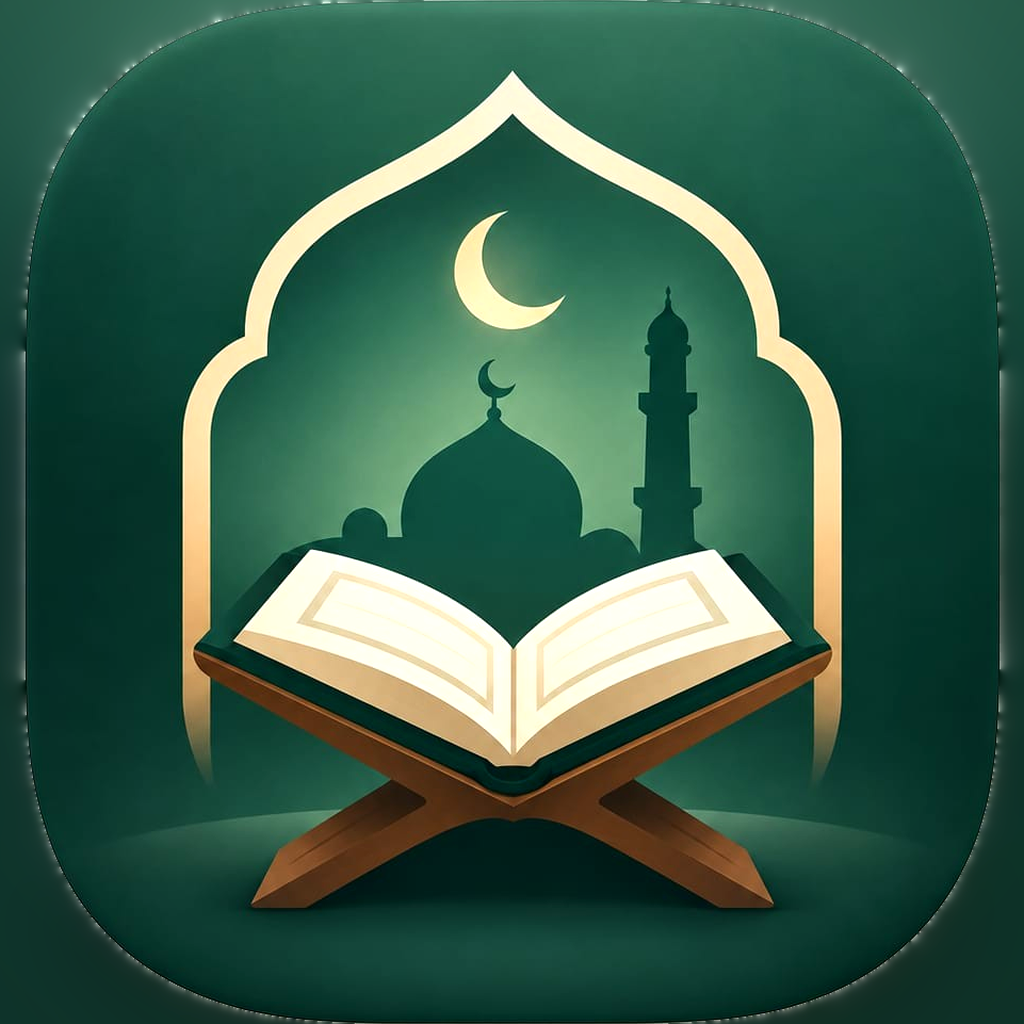
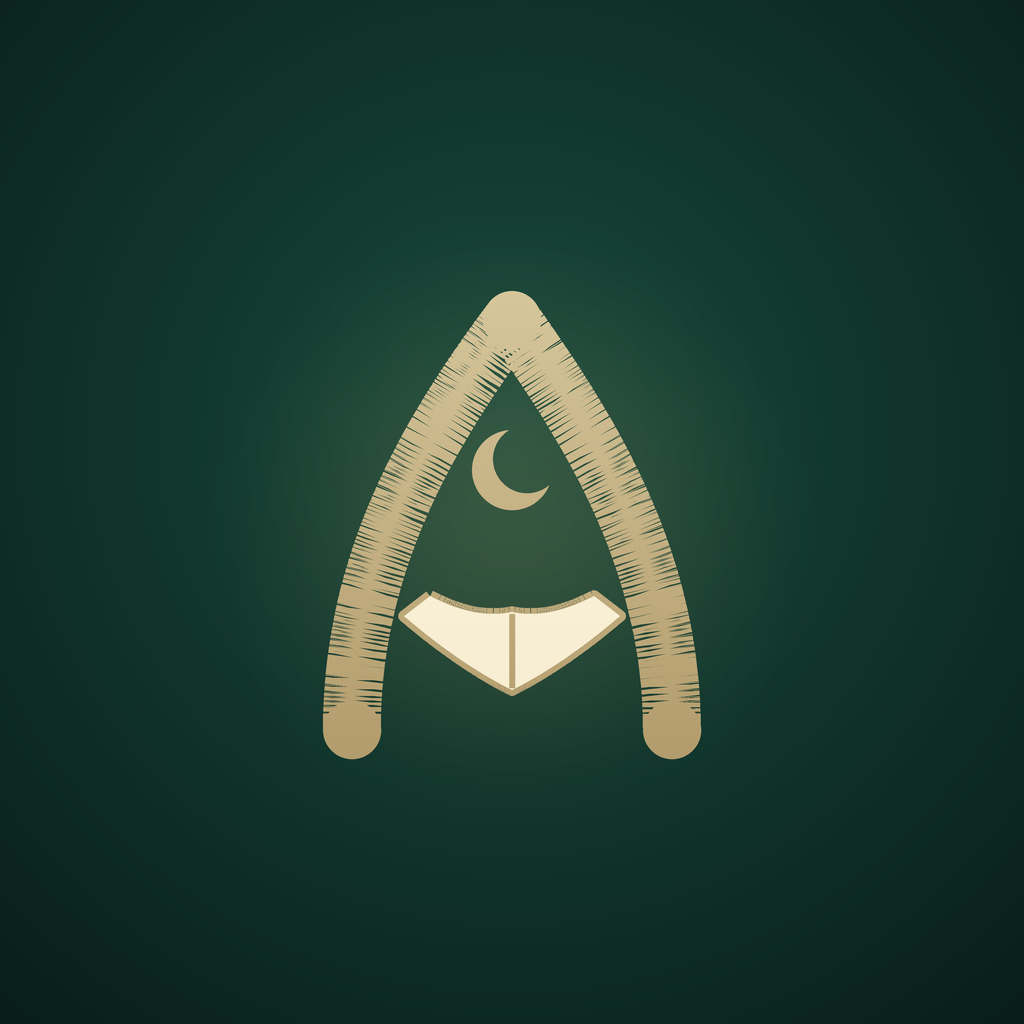
أيقونة جديدة: قوس محراب ذهبي + هلال + مصحف مفتوح (الإصدار 1.17.2)
تصميم مختصر عمدًا عشان يفضل واضح عند 48dp: قوس محراب
مدبب ذهبي، هلال صغير في فتحته، ومصحف مفتوح عند قاعدته،
على خضرة عميقة مع توهج ذهبي خفيف — ثلاث أشكال بمسافات
واسعة بدل التفاصيل الكثيرة السابقة.

- scripts/prep-icon.py مولّد الأ artwork (Pillow، 4x supersample)
- scripts/check-icon-artwork.py عينات بكسل تحقق من التصميم
- كل المقاسات اتولدت: Web (192/512/og) + Android mipmaps
- versionCode بقى 1017002 عشان التحديث من 1.17.1 ينزل مباشرة

diff --git a/scripts/prep-icon.py b/scripts/prep-icon.py
@@ -1,161 +1,167 @@
+"""Generates the Qurra launcher artwork: scripts/assets/icon-prepared.png.
+
+The mark is deliberately minimal so it stays legible at 48dp: a pointed
+mihrab arch in gold, a small crescent in its upper opening, and an open
+Mushaf fanning out at the arch's base — three shapes with generous
+negative space on a deep-green radial field.
+
+Run from the repository root:
+    python scripts/prep-icon.py
 """
-Icon prep step for the Qurra launcher icon (run BEFORE scripts\\make-icons.ps1).
 
-The raw artwork (scripts\\assets\\icon-source.png) is an AI render: the green
-squircle sits in a cream margin with a soft drop shadow, it is 916x961 rather
-than square, and the margin is uneven — which is why a naive crop produced a
-wobbly border. This script turns it into a clean full-bleed tile:
+from pathlib import Path
 
-  1. keys out the cream margin + its shadow (flood fill from the frame edges,
-     so the ivory arch and pages inside the artwork are never touched),
-  2. extends the green field with a coarse-to-fine harmonic (Laplace) fill —
-     no streaks, no visible seam where the squircle used to end,
-  3. crops a square centred on the squircle (no stretching),
-  4. colour-grades it into one coordinated palette: richer green, warm
-     ivory/gold highlights, deep-green shadows, soft vignette.
+from PIL import Image, ImageDraw
 
-Output: scripts\\assets\\icon-prepared.png (1024x1024, square, unmasked).
-scripts\\make-icons.ps1 then only has to scale it and cut the program's
-rounded-square border, so the whole icon set stays reproducible.
+SS = 4                                   # supersampling factor
+S = 1024 * SS                            # working canvas
+OUT = Path(__file__).resolve().parent / "assets" / "icon-prepared.png"
 
-Requires: numpy, Pillow (dev-only; the prepared PNG is committed).
-    python scripts\\prep-icon.py
-"""
-import numpy as np
-from PIL import Image
+# Palette (kept in sync with the app theme).
+FIELD_EDGE = (9, 30, 25)        # #091E19  field corners
+FIELD_CENTER = (23, 74, 61)     # #174A3D  field middle
+GLOW_TINT = (190, 158, 92)      # soft gold glow behind the mark
+GOLD_LIGHT = (236, 224, 184)    # #ECE0B8  lit gold (top of the mark)
+GOLD_DEEP = (158, 132, 82)      # #9E8452  shadow gold (bottom)
+IVORY = (253, 247, 229)         # #FDF7E5  page ivory
+IVORY_DEEP = (244, 233, 201)    # #F4E9C9  page ivory, shaded edge
 
-try:
-    from PIL import ImageFilter  # noqa: F401  (kept for local experiments)
-except ImportError:
-    pass
-
-import os
-import sys
-
-ROOT = os.path.dirname(os.path.dirname(os.path.abspath(__file__)))
-SRC = os.path.join(ROOT, 'scripts', 'assets', 'icon-source.png')
-PREPARED = os.path.join(ROOT, 'scripts', 'assets', 'icon-prepared.png')
-OUT_SIZE = 1024
+C = S / 2
 
 
-def key_background(img):
-    """Cream margin + drop shadow, but only what is reachable from the frame.
-
-    Flood fill from the border so interior ivory (arch, crescent, pages) is
-    never classified as background even though it shares the colour.
-    """
-    mx = img.max(2)
-    chroma = mx - img.min(2)
-    bg = ((mx > 236) & (chroma < 24)) | ((mx > 168) & (mx <= 236) & (chroma < 30))
-    conn = np.zeros_like(bg)
-    conn[0, :] |= bg[0, :]
-    conn[-1, :] |= bg[-1, :]
-    conn[:, 0] |= bg[:, 0]
-    conn[:, -1] |= bg[:, -1]
-    while True:
-        new = conn.copy()
-        new[1:, :] |= conn[:-1, :]
-        new[:-1, :] |= conn[1:, :]
-        new[:, 1:] |= conn[:, :-1]
-        new[:, :-1] |= conn[:, 1:]
-        new &= bg
-        if np.array_equal(new, conn):
-            return conn
-        conn = new
+def lerp(a, b, t):
+    return tuple(int(round(a[i] + (b[i] - a[i]) * t)) for i in range(3))
 
 
-def diffusion_fill(img, bgm):
-    """Harmonic (Laplace) fill of the keyed margin, coarse-to-fine so it is
-    fast. The field continues past the squircle with no streaks and no seam."""
-    H, W = img.shape[:2]
-
-    def jacobi(u, m, iters):
-        for _ in range(iters):
-            p = np.pad(u, ((1, 1), (1, 1), (0, 0)), mode='edge')
-            nb = (p[:-2, 1:-1] + p[2:, 1:-1] + p[1:-1, :-2] + p[1:-1, 2:]) / 4.0
-            u = np.where(m[..., None], nb, u)
-        return u
-
-    def down(a, h, w):
-        im = Image.fromarray(np.rint(np.clip(a, 0, 255)).astype(np.uint8))
-        return np.asarray(im.resize((w, h), Image.BILINEAR)).astype(np.float32)
-
-    u = img.astype(np.float32).copy()
-    u[bgm] = img[~bgm].reshape(-1, 3).mean(0)
-    for size, iters in ((80, 2600), (160, 700), (320, 250), (640, 90), (0, 40)):
-        if size == 0:
-            u = jacobi(u, bgm, iters)
-            break
-        h = max(8, int(round(H / min(H, W) * size)))
-        w = max(8, int(round(W / min(H, W) * size)))
-        u_s = down(u, h, w)
-        m_s = np.asarray(Image.fromarray((bgm * 255).astype(np.uint8))
-                         .resize((w, h), Image.BILINEAR)) > 128
-        u_s = jacobi(u_s, m_s, iters)
-        u = np.where(bgm[..., None], down(u_s, H, W), img)
-    return np.clip(u, 0, 255)
+def cubic(p0, p1, p2, p3, steps=220):
+    pts = []
+    for i in range(steps + 1):
+        t = i / steps
+        u = 1.0 - t
+        pts.append((
+            u * u * u * p0[0] + 3 * u * u * t * p1[0] + 3 * u * t * t * p2[0] + t * t * t * p3[0],
+            u * u * u * p0[1] + 3 * u * u * t * p1[1] + 3 * u * t * t * p2[1] + t * t * t * p3[1],
+        ))
+    return pts
 
 
-def grade(x):
-    """One coordinated palette: richer green, ivory/gold highlights, soft depth."""
-    x = x / 255.0
-    lum = x @ np.array([0.2126, 0.7152, 0.0722], np.float32)
-    x = lum[..., None] + (x - lum[..., None]) * 1.12      # saturation
-    x = (x - 0.45) * 1.07 + 0.45                           # gentle contrast
-    hi = np.array([0.788, 0.682, 0.455], np.float32)       # #C9AE74 app gold
-    sh = np.array([0.055, 0.200, 0.160], np.float32)       # #0E3329 deep green
-    k_hi = (0.07 * lum ** 3)[..., None]
-    k_sh = (0.07 * (1 - lum) ** 3)[..., None]
-    x = x * (1 - k_hi) + hi * k_hi
-    x = x * (1 - k_sh) + sh * k_sh
-    H, W = x.shape[:2]
-    ys, xs = np.mgrid[0:H, 0:W]
-    rr = np.hypot(xs - (W - 1) / 2, ys - (H - 1) / 2)
-    rr = rr / rr.max()
-    x = x * (1 - 0.08 * rr ** 2.4)[..., None]              # gentle vignette
-    # soft key light from the top-centre: lifts the field so the icon holds its
-    # own next to the bright global apps without touching the ivory or gold
-    x = x * (1.0 + 0.085 * np.exp(-((rr / 0.62) ** 2)))[..., None]
-    return np.clip(x, 0, 1)
+def quad(p0, p1, p2, steps=180):
+    pts = []
+    for i in range(steps + 1):
+        t = i / steps
+        u = 1.0 - t
+        pts.append((
+            u * u * p0[0] + 2 * u * t * p1[0] + t * t * p2[0],
+            u * u * p0[1] + 2 * u * t * p1[1] + t * t * p2[1],
+        ))
+    return pts
 
 
-def main():
-    if not os.path.exists(SRC):
-        sys.exit('missing source artwork: %s' % SRC)
-    src = np.asarray(Image.open(SRC).convert('RGB')).astype(np.float32)
-
-    bgm = key_background(src)
-    print('keyed %.2f%% of the canvas as margin/shadow' % (100 * bgm.mean()))
-
-    filled = diffusion_fill(src, bgm)
-
-    # square crop centred on the squircle (it is 916x961, so a symmetric
-    # square crop avoids any stretching)
-    green = ~bgm
-    ys, xs = np.where(green)
-    x0, x1 = xs.min(), xs.max()
-    y0, y1 = ys.min(), ys.max()
-    print('squircle bbox %d,%d - %d,%d -> %dx%d'
-          % (x0, y0, x1, y1, x1 - x0 + 1, y1 - y0 + 1))
-    side = max(x1 - x0 + 1, y1 - y0 + 1)
-    sx0 = int(round((x0 + x1) / 2.0 - side / 2.0))
-    sy0 = int(round((y0 + y1) / 2.0 - side / 2.0))
-    crop = filled[sy0:sy0 + side, sx0:sx0 + side]
-    im = Image.fromarray(np.rint(crop).astype(np.uint8)).resize(
-        (OUT_SIZE, OUT_SIZE), Image.LANCZOS)
-
-    out = grade(np.asarray(im).astype(np.float32))
-    im = Image.fromarray(np.rint(out * 255).astype(np.uint8))
-    im.save(PREPARED)
-
-    px = im.load()
-    print('wrote %s (%dx%d)' % (PREPARED, im.size[0], im.size[1]))
-    for name, pt in [('corner TL', (2, 2)), ('corner TR', (OUT_SIZE - 3, 2)),
-                     ('corner BL', (2, OUT_SIZE - 3)), ('corner BR', (OUT_SIZE - 3, OUT_SIZE - 3)),
-                     ('mid top', (OUT_SIZE // 2, 2)), ('mid bottom', (OUT_SIZE // 2, OUT_SIZE - 3)),
-                     ('centre', (OUT_SIZE // 2, OUT_SIZE // 2))]:
-        print('  %-12s #%02X%02X%02X' % ((name,) + px[pt]))
+def radial_field(size, inner, outer, cx=0.5, cy=0.42):
+    """Low-res radial gradient, upscaled bicubic."""
+    small = 512
+    img = Image.new("RGB", (small, small))
+    px = img.load()
+    for y in range(small):
+        for x in range(small):
+            dx = (x + 0.5) / small - cx
+            dy = (y + 0.5) / small - cy
+            d = min(1.0, ((dx * dx + dy * dy) ** 0.5) / 0.75)
+            px[x, y] = lerp(inner, outer, d)
+    return img.resize((size, size), Image.BICUBIC)
 
 
-if __name__ == '__main__':
-    main()
+def vertical_gradient(size, top, bottom):
+    col = Image.new("RGB", (1, size))
+    px = col.load()
+    for y in range(size):
+        px[0, y] = lerp(top, bottom, y / max(1, size - 1))
+    return col.resize((size, size), Image.BILINEAR)
+
+
+def glow_mask(size, cx, cy, radius):
+    """Feathered radial mask (smoothstep falloff)."""
+    small = 256
+    m = Image.new("L", (small, small), 0)
+    px = m.load()
+    scx, scy = cx * small / size, cy * small / size
+    srad = radius * small / size
+    for y in range(small):
+        for x in range(small):
+            dx = (x + 0.5) - scx
+            dy = (y + 0.5) - scy
+            d = ((dx * dx + dy * dy) ** 0.5) / srad
+            if d < 1.0:
+                t = 1.0 - d
+                px[x, y] = int(255 * t * t * (3 - 2 * t))
+    return m.resize((size, size), Image.BICUBIC)
+
+
+def build():
+    # --- deep-green field with a soft gold glow behind the mark ---
+    base = radial_field(S, FIELD_CENTER, FIELD_EDGE)
+    glow = glow_mask(S, C, C * 1.02, 340 * SS).point(lambda v: v // 5)
+    base = Image.composite(Image.new("RGB", (S, S), GLOW_TINT), base, glow)
+
+    gold = vertical_gradient(S, GOLD_LIGHT, GOLD_DEEP)
+
+    def stamp(mask):
+        base.paste(gold, (0, 0), mask)
+
+    # --- mihrab arch: two ogee curves meeting in a rounded point ---
+    apex = (C, 320 * SS)
+    foot_l = (352 * SS, 730 * SS)
+    foot_r = (672 * SS, 730 * SS)
+    w = int(58 * SS)
+    r = w // 2
+
+    arch = Image.new("L", (S, S), 0)
+    d = ImageDraw.Draw(arch)
+    d.line(cubic(foot_l, (352 * SS, 560 * SS), (430 * SS, 430 * SS), apex),
+           fill=255, width=w, joint="curve")
+    d.line(cubic(foot_r, (672 * SS, 560 * SS), (590 * SS, 430 * SS), apex),
+           fill=255, width=w, joint="curve")
+    for p in (apex, foot_l, foot_r):        # rounded caps at every end
+        d.ellipse([p[0] - r, p[1] - r, p[0] + r, p[1] + r], fill=255)
+    stamp(arch)
+
+    # --- crescent in the arch's upper opening, horns up-right ---
+    cx, cy = C, 470 * SS
+    ro, ri = 40 * SS, 34 * SS
+    ox, oy = 15 * SS, -11 * SS
+    cres = Image.new("L", (S, S), 0)
+    d = ImageDraw.Draw(cres)
+    d.ellipse([cx - ro, cy - ro, cx + ro, cy + ro], fill=255)
+    d.ellipse([cx + ox - ri, cy + oy - ri, cx + ox + ri, cy + oy + ri], fill=0)
+    stamp(cres)
+
+    # --- open Mushaf fanning out at the arch's base ---
+    top = (quad((430 * SS, 596 * SS), (476 * SS, 620 * SS), (512 * SS, 612 * SS))
+           + quad((512 * SS, 612 * SS), (548 * SS, 620 * SS), (594 * SS, 596 * SS))[1:])
+    bottom = (quad((404 * SS, 616 * SS), (460 * SS, 664 * SS), (512 * SS, 690 * SS))
+              + quad((512 * SS, 690 * SS), (564 * SS, 664 * SS), (620 * SS, 616 * SS))[1:])
+    outline = top + bottom[::-1] + [(430 * SS, 596 * SS)]
+
+    edge = Image.new("L", (S, S), 0)
+    d = ImageDraw.Draw(edge)
+    d.line(outline + [outline[0]], fill=255, width=int(12 * SS), joint="curve")
+    stamp(edge)
+
+    pages = Image.new("L", (S, S), 0)
+    d = ImageDraw.Draw(pages)
+    d.polygon(outline, fill=255)
+    base.paste(vertical_gradient(S, IVORY, IVORY_DEEP), (0, 0), pages)
+
+    spine = Image.new("L", (S, S), 0)       # centre crease
+    d = ImageDraw.Draw(spine)
+    d.line([(512 * SS, 614 * SS), (512 * SS, 688 * SS)],
+           fill=255, width=int(6 * SS), joint="curve")
+    stamp(spine)
+
+    OUT.parent.mkdir(parents=True, exist_ok=True)
+    base.resize((1024, 1024), Image.LANCZOS).save(OUT)
+    print(f"wrote {OUT} ({OUT.stat().st_size} bytes)")
+
+
+if __name__ == "__main__":
+    build()

diff --git a/scripts/check-icon-artwork.py b/scripts/check-icon-artwork.py
@@ -1,0 +1,37 @@
+"""Sanity-checks the generated artwork: samples pixels where each
+shape should be, so a silent geometry bug can't slip through."""
+from PIL import Image
+
+im = Image.open("scripts/assets/icon-prepared.png").convert("RGB")
+
+# (label, x, y, what we expect to see)
+samples = [
+    ("arch apex",      512, 320, "gold"),
+    ("arch left foot", 352, 730, "gold"),
+    ("arch right foot", 672, 730, "gold"),
+    ("crescent body",  480, 494, "gold"),
+    ("crescent bite",  527, 459, "green field"),
+    ("book pages",     512, 650, "ivory"),
+    ("book spine",     512, 640, "gold line"),
+    ("field corner",   100, 100, "dark green"),
+    ("field top",      512, 100, "mid green"),
+    ("gap arch/book",  512, 550, "green field"),
+]
+
+
+def classify(rgb):
+    r, g, b = rgb
+    if r > 200 and g > 200 and b > 170:
+        return "ivory"
+    if r > 140 and g > 110 and b < 140 and r > b + 40:
+        return "gold"
+    if g > r and g > b:
+        return "green field"
+    return "other"
+
+
+for label, x, y, want in samples:
+    rgb = im.getpixel((x, y))
+    got = classify(rgb)
+    ok = "OK " if got == want else "?? "
+    print(f"{ok}{label:16s} ({x},{y}) -> {rgb} = {got} (want {want})")
